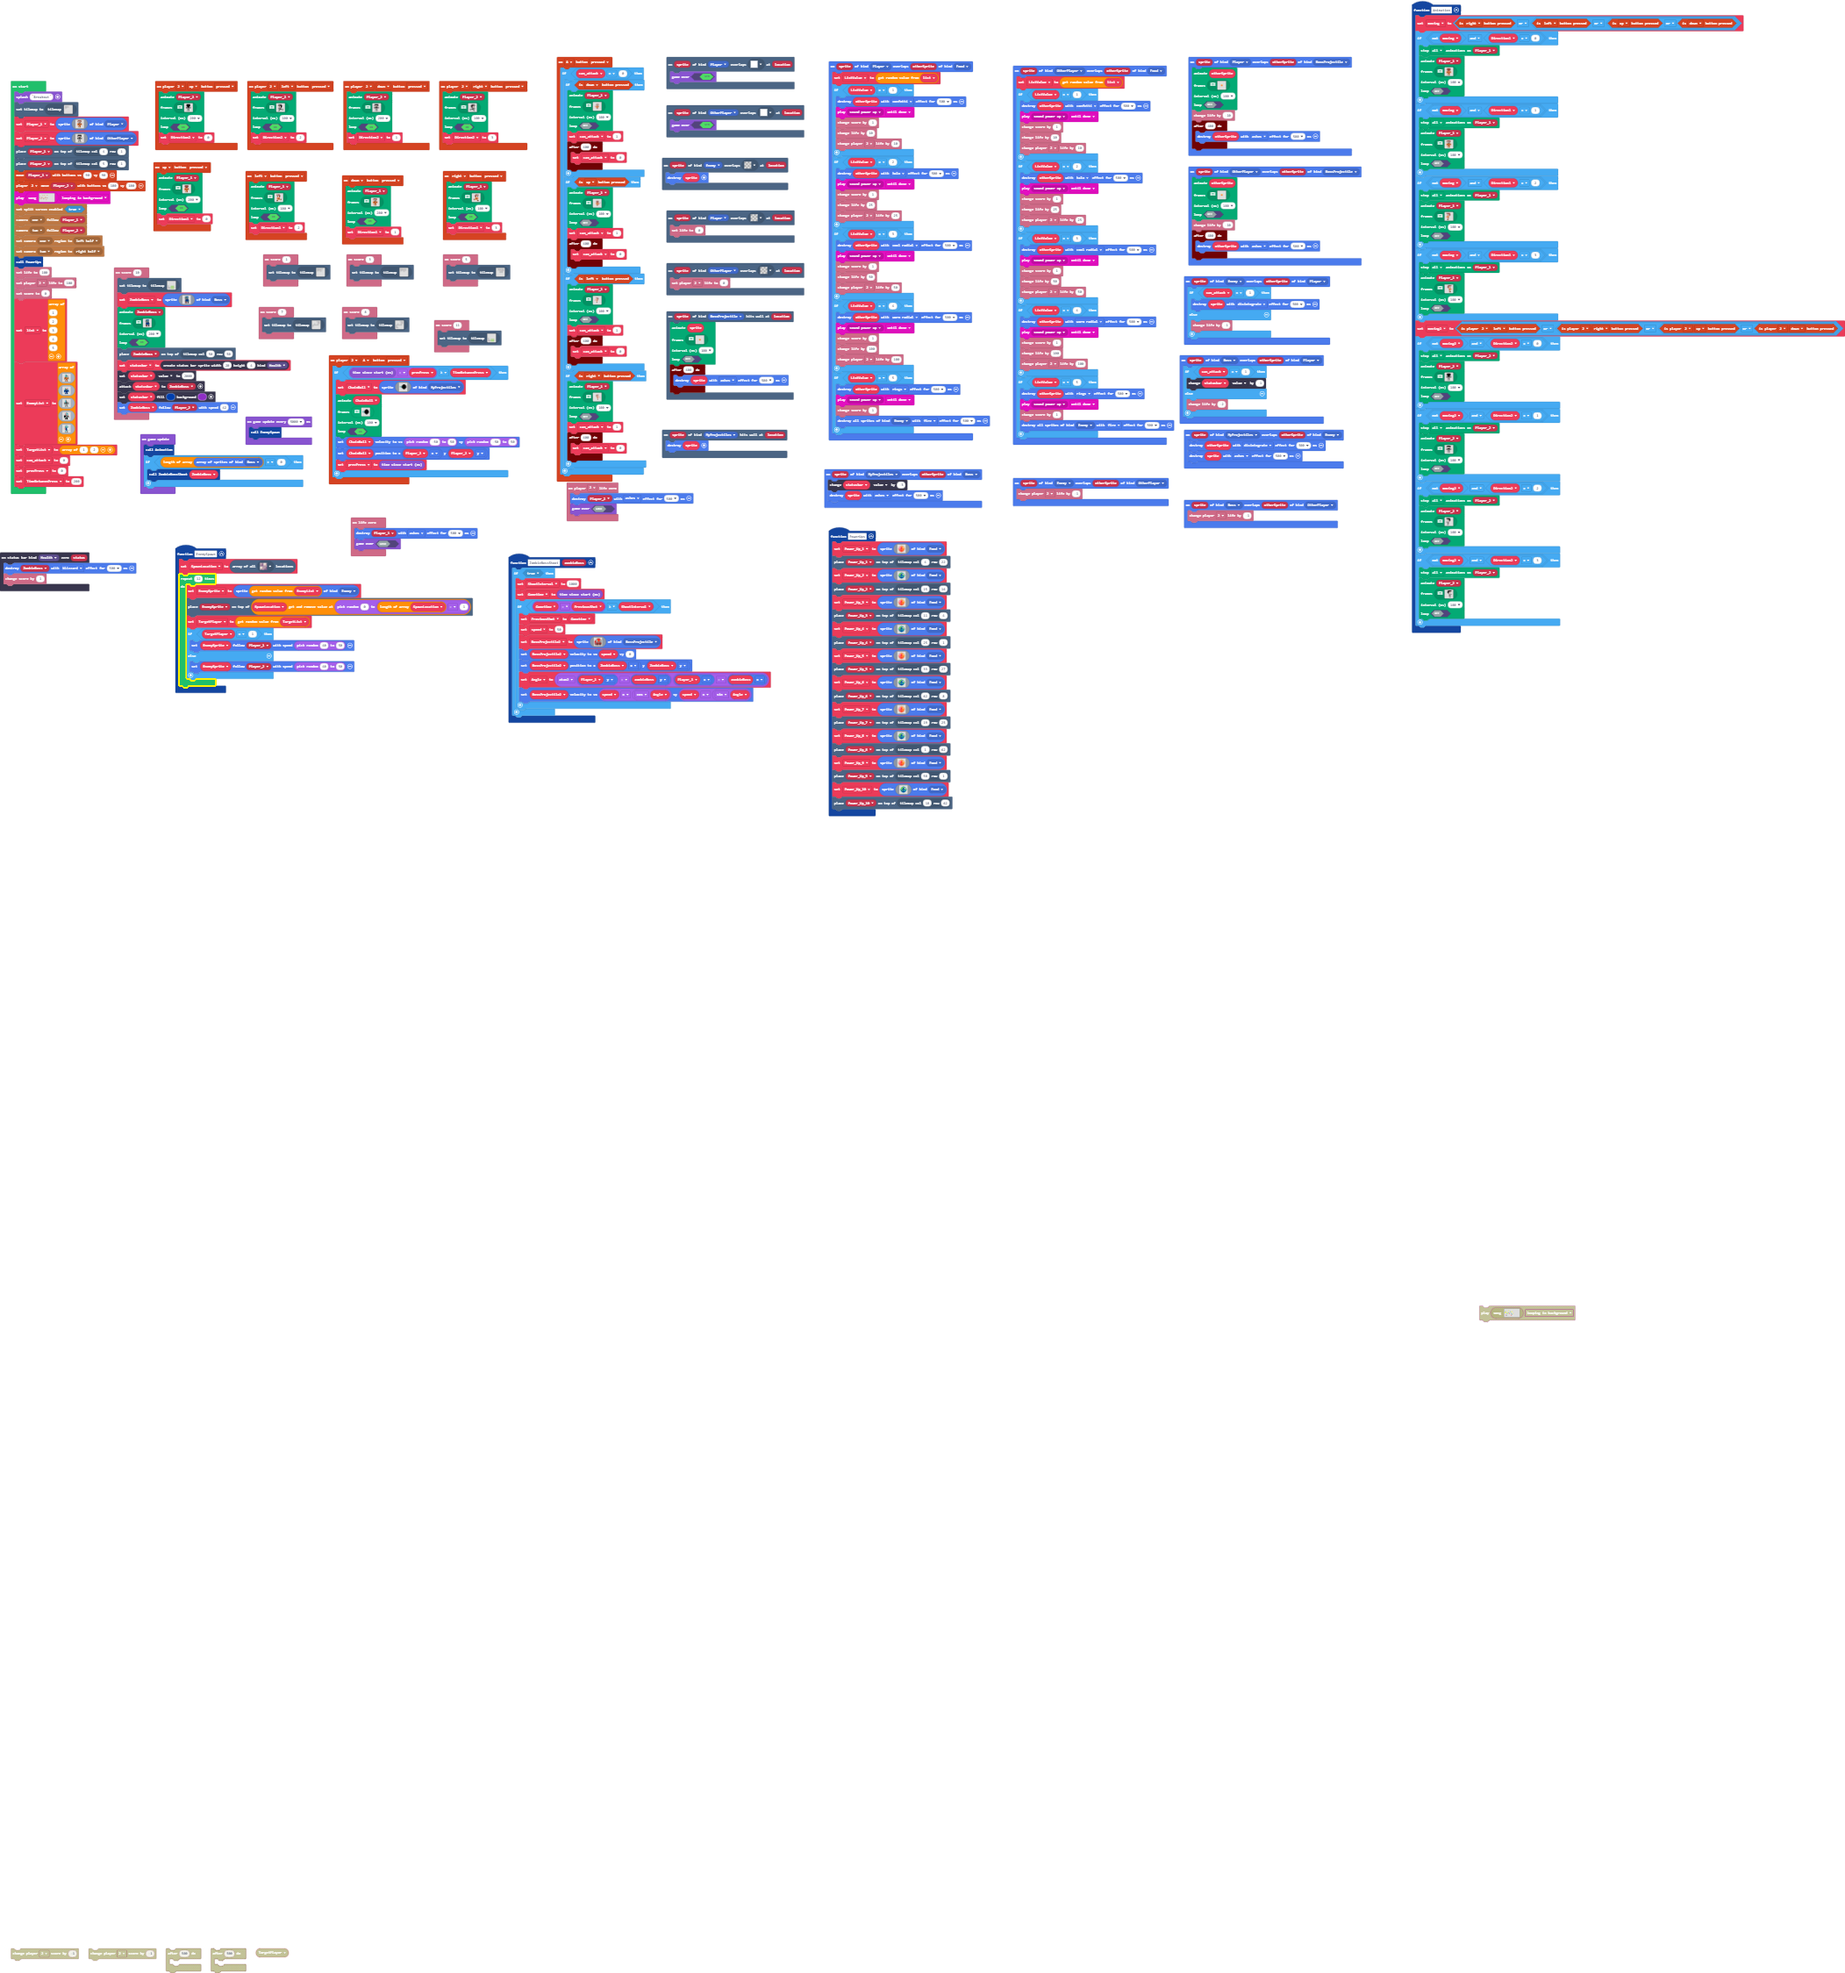
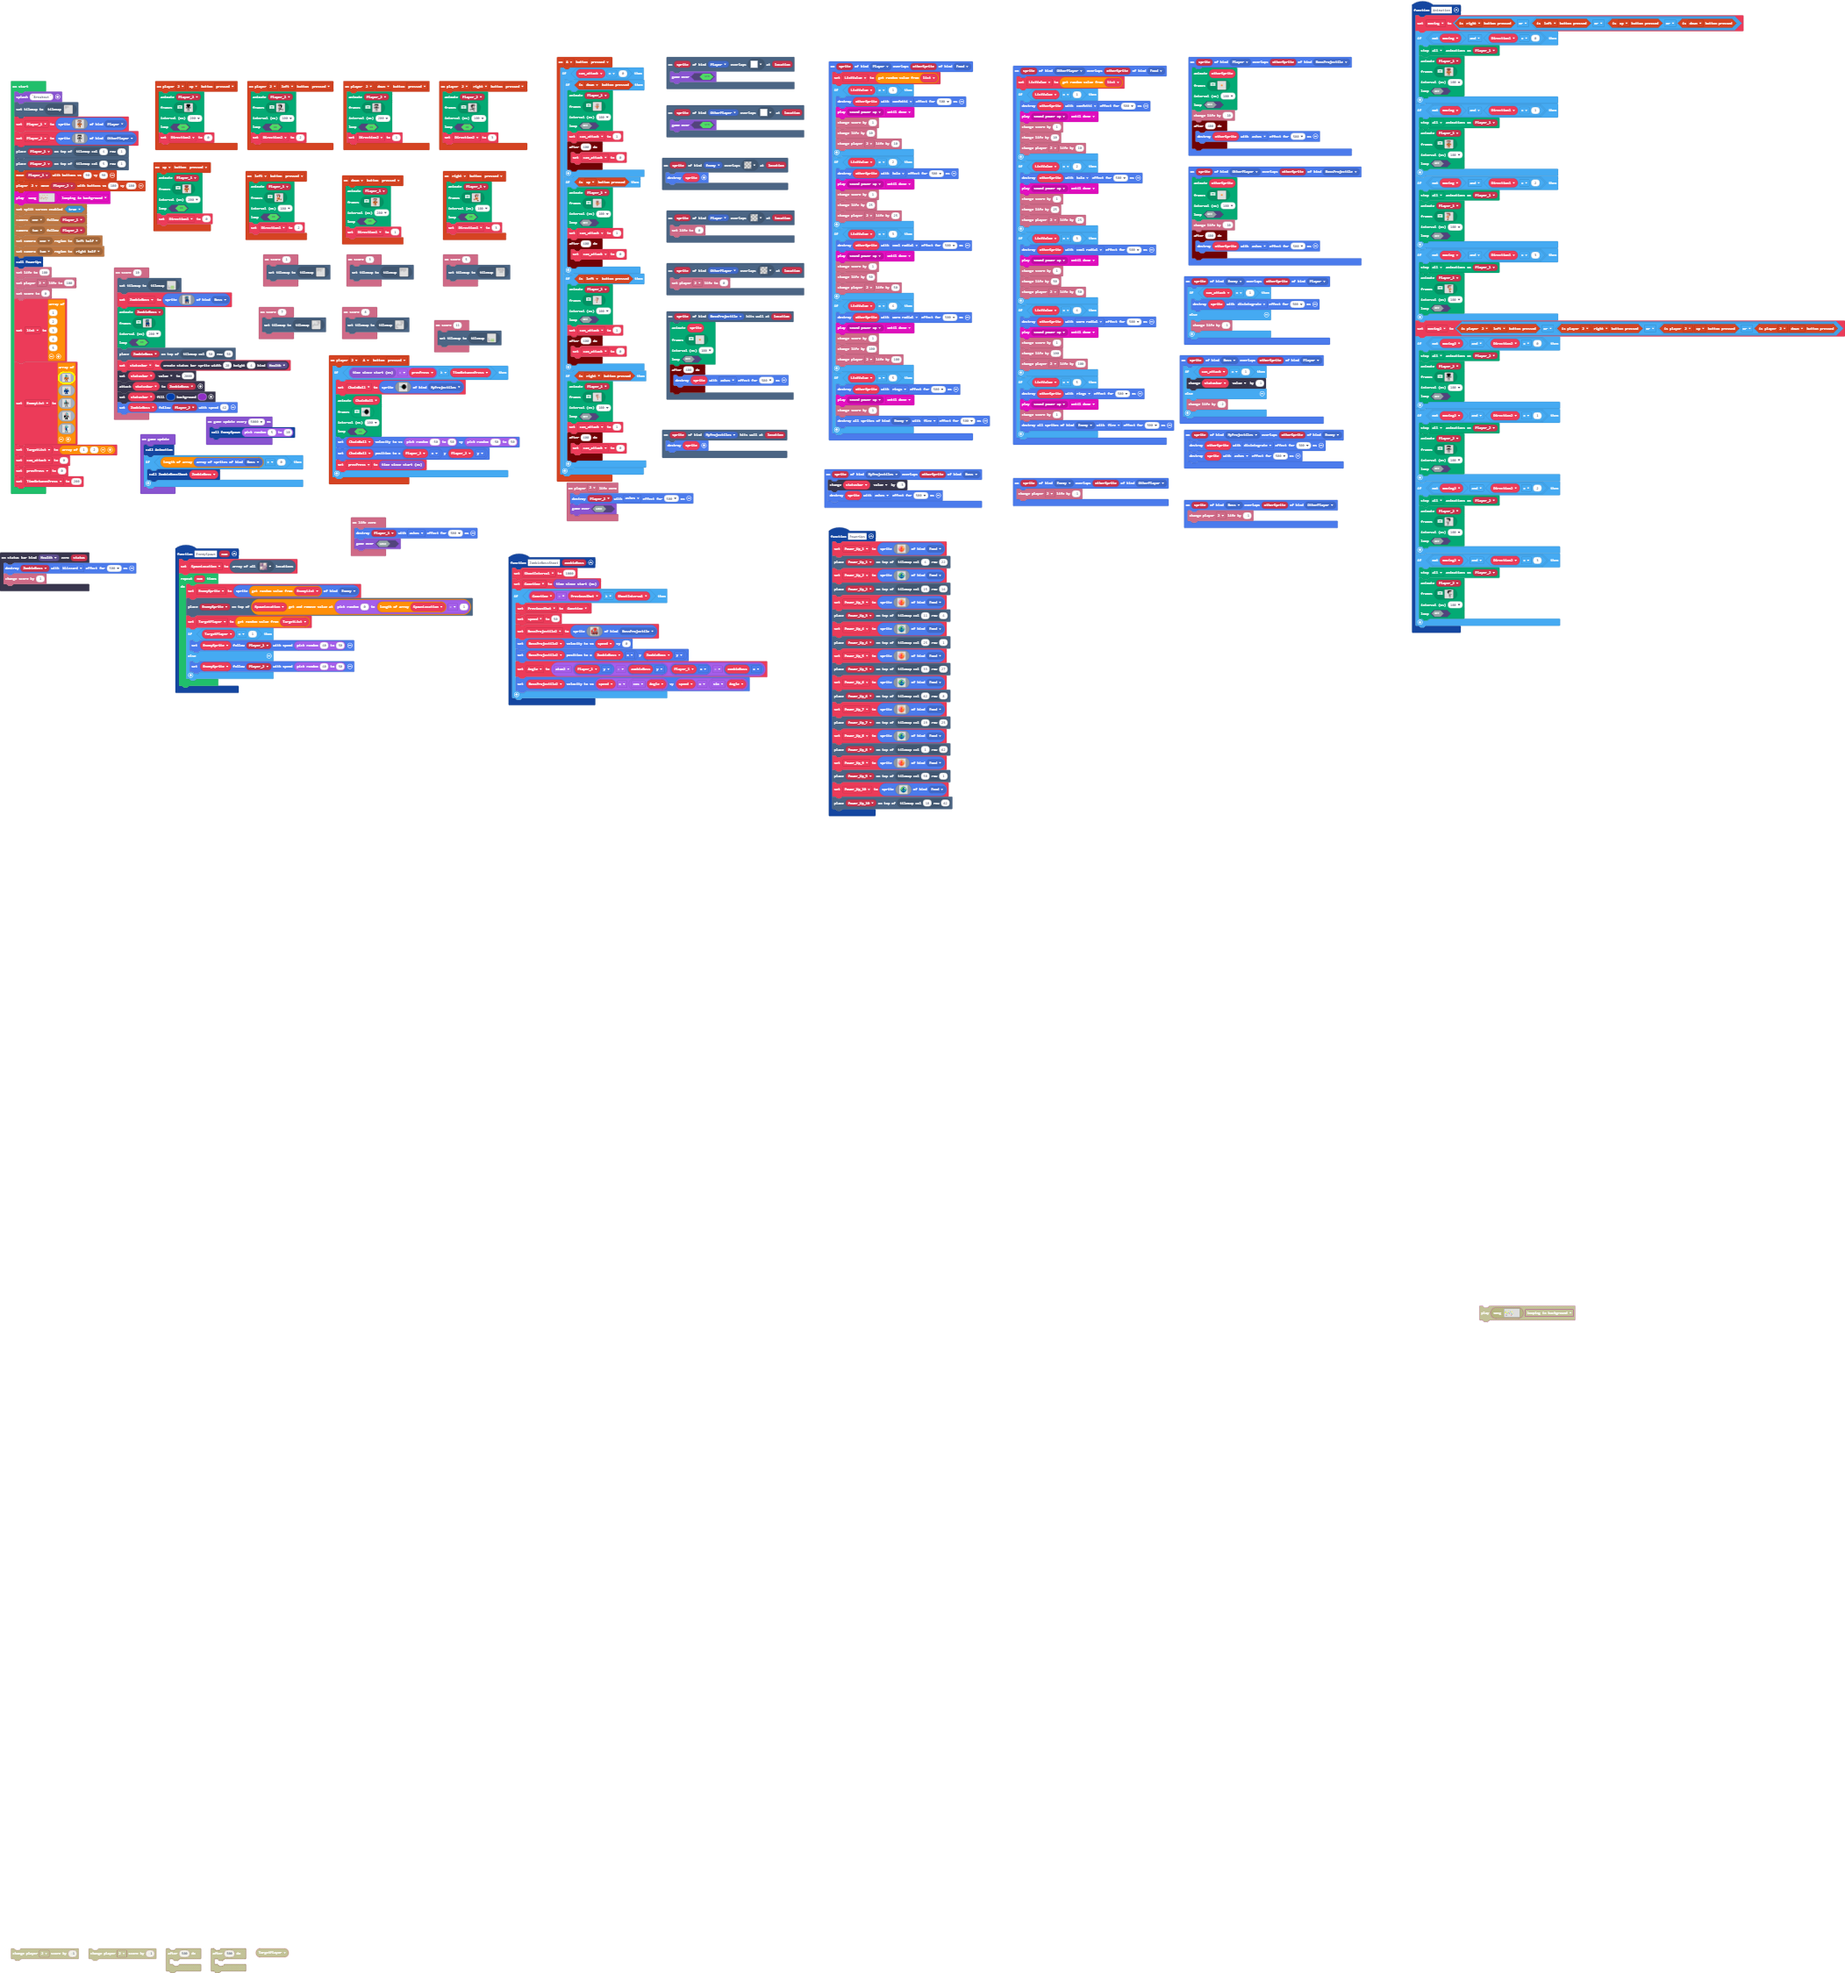
Update main.blocks, main.ts

Changed region(s): [[0.2782, 0.2801, 0.4327, 0.3735], [0.1236, 0.1867, 0.1545, 0.249], [0.0927, 0.2801, 0.1236, 0.3112]]

diff --git a/main.ts b/main.ts
@@ -1772,35 +1772,33 @@ info.player2.onLifeZero(function () {
     game.gameOver(false)
 })
 function ZombieBossShoot (zombieBoss: Sprite) {
-    if (true) {
-        ShootInterval = 1000
-        Gametime = game.runtime()
-        if (Gametime - PreviousShot >= ShootInterval) {
-            PreviousShot = Gametime
-            speed = 50
-            BossProjectile2 = sprites.create(img`
-                . . . . . . . e e e e e . . . . 
-                . . . . . e e 2 2 2 2 2 e . . . 
-                . . . . e e 2 2 2 2 2 2 2 e . . 
-                . . . . e 9 4 2 2 2 2 2 4 b e . 
-                . . e e 9 9 4 4 2 2 2 2 4 9 b e 
-                . e 2 2 9 9 4 4 4 2 2 2 4 9 9 e 
-                e 2 2 2 9 9 2 4 4 4 4 4 2 9 9 e 
-                e 2 2 2 9 9 e e e e e e e 9 9 e 
-                e 2 2 2 9 b e b b b e b e b 9 e 
-                e 2 e e e e b b b b e b b e b e 
-                e e 3 3 e e 2 2 2 2 e 2 2 e e e 
-                e 3 3 e e e e e e e e e e e e e 
-                e e e e e e e e e e e e e e e e 
-                e e e e f f f e e e e f f f e e 
-                . e e f b c c f e e f b c c f . 
-                . . . . b b f . . . . b b f . . 
-                `, SpriteKind.BossProjectile)
-            BossProjectile2.setVelocity(speed, 0)
-            BossProjectile2.setPosition(ZombieBoss.x, ZombieBoss.y)
-            Angle = Math.atan2(Player_1.y - zombieBoss.y, Player_1.x - zombieBoss.x)
-            BossProjectile2.setVelocity(speed * Math.cos(Angle), speed * Math.sin(Angle))
-        }
+    ShootInterval = 1000
+    Gametime = game.runtime()
+    if (Gametime - PreviousShot >= ShootInterval) {
+        PreviousShot = Gametime
+        speed = 50
+        BossProjectile2 = sprites.create(img`
+            . . . . . . . e e e e e . . . . 
+            . . . . . e e 2 2 2 2 2 e . . . 
+            . . . . e e 2 2 2 2 2 2 2 e . . 
+            . . . . e 9 4 2 2 2 2 2 4 b e . 
+            . . e e 9 9 4 4 2 2 2 2 4 9 b e 
+            . e 2 2 9 9 4 4 4 2 2 2 4 9 9 e 
+            e 2 2 2 9 9 2 4 4 4 4 4 2 9 9 e 
+            e 2 2 2 9 9 e e e e e e e 9 9 e 
+            e 2 2 2 9 b e b b b e b e b 9 e 
+            e 2 e e e e b b b b e b b e b e 
+            e e 3 3 e e 2 2 2 2 e 2 2 e e e 
+            e 3 3 e e e e e e e e e e e e e 
+            e e e e e e e e e e e e e e e e 
+            e e e e f f f e e e e f f f e e 
+            . e e f b c c f e e f b c c f . 
+            . . . . b b f . . . . b b f . . 
+            `, SpriteKind.BossProjectile)
+        BossProjectile2.setVelocity(speed, 0)
+        BossProjectile2.setPosition(ZombieBoss.x, ZombieBoss.y)
+        Angle = Math.atan2(Player_1.y - zombieBoss.y, Player_1.x - zombieBoss.x)
+        BossProjectile2.setVelocity(speed * Math.cos(Angle), speed * Math.sin(Angle))
     }
 }
 scene.onOverlapTile(SpriteKind.Player, assets.tile`transparency16`, function (sprite, location) {
@@ -1812,9 +1810,9 @@ info.onScore(5, function () {
 info.onScore(8, function () {
     tiles.setCurrentTilemap(tilemap`level14`)
 })
-function EnemySpawn () {
+function EnemySpawn (num: number) {
     SpawnLocation = tiles.getTilesByType(sprites.dungeon.floorMixed)
-    for (let index = 0; index < 12; index++) {
+    for (let index = 0; index < num; index++) {
         EnemySprite = sprites.create(EnemyList._pickRandom(), SpriteKind.Enemy)
         tiles.placeOnTile(EnemySprite, SpawnLocation.removeAt(randint(0, SpawnLocation.length - 1)))
         TargetPlayer = TargetList._pickRandom()
@@ -2022,5 +2020,5 @@ game.onUpdate(function () {
     }
 })
 game.onUpdateInterval(5000, function () {
-    EnemySpawn()
+    EnemySpawn(randint(5, 10))
 })
